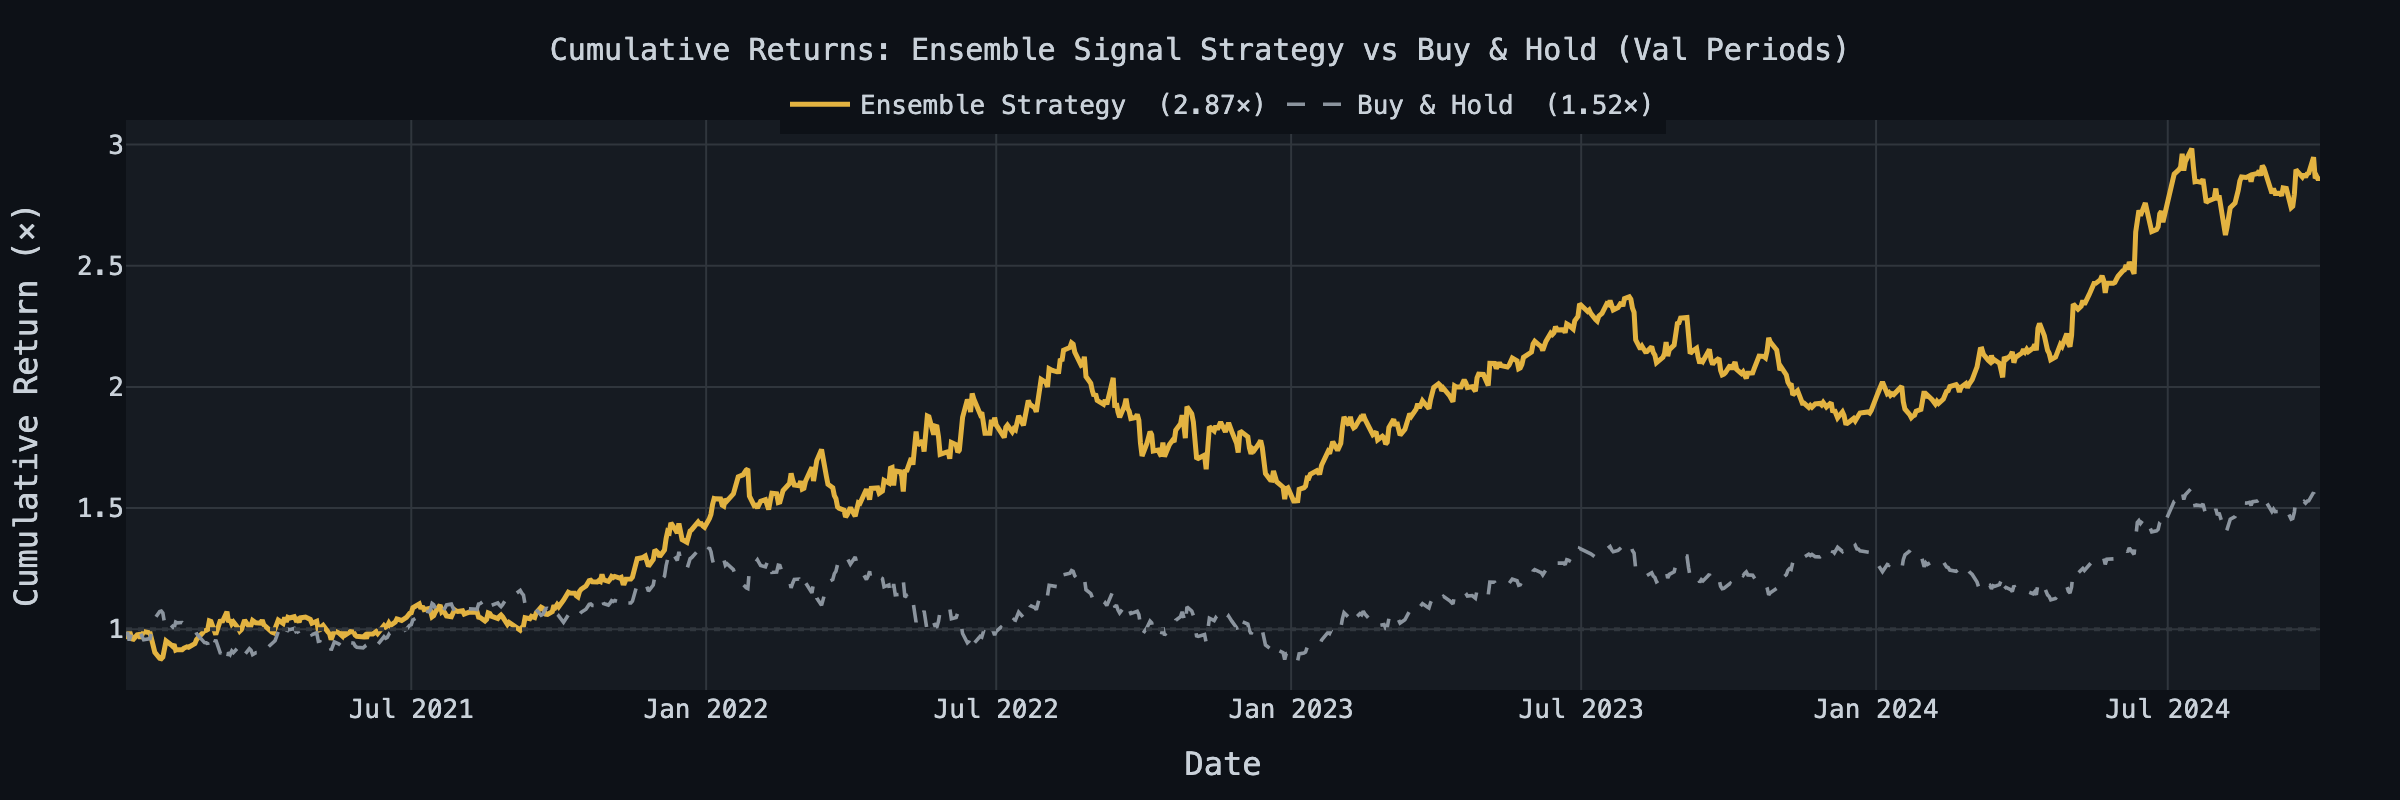
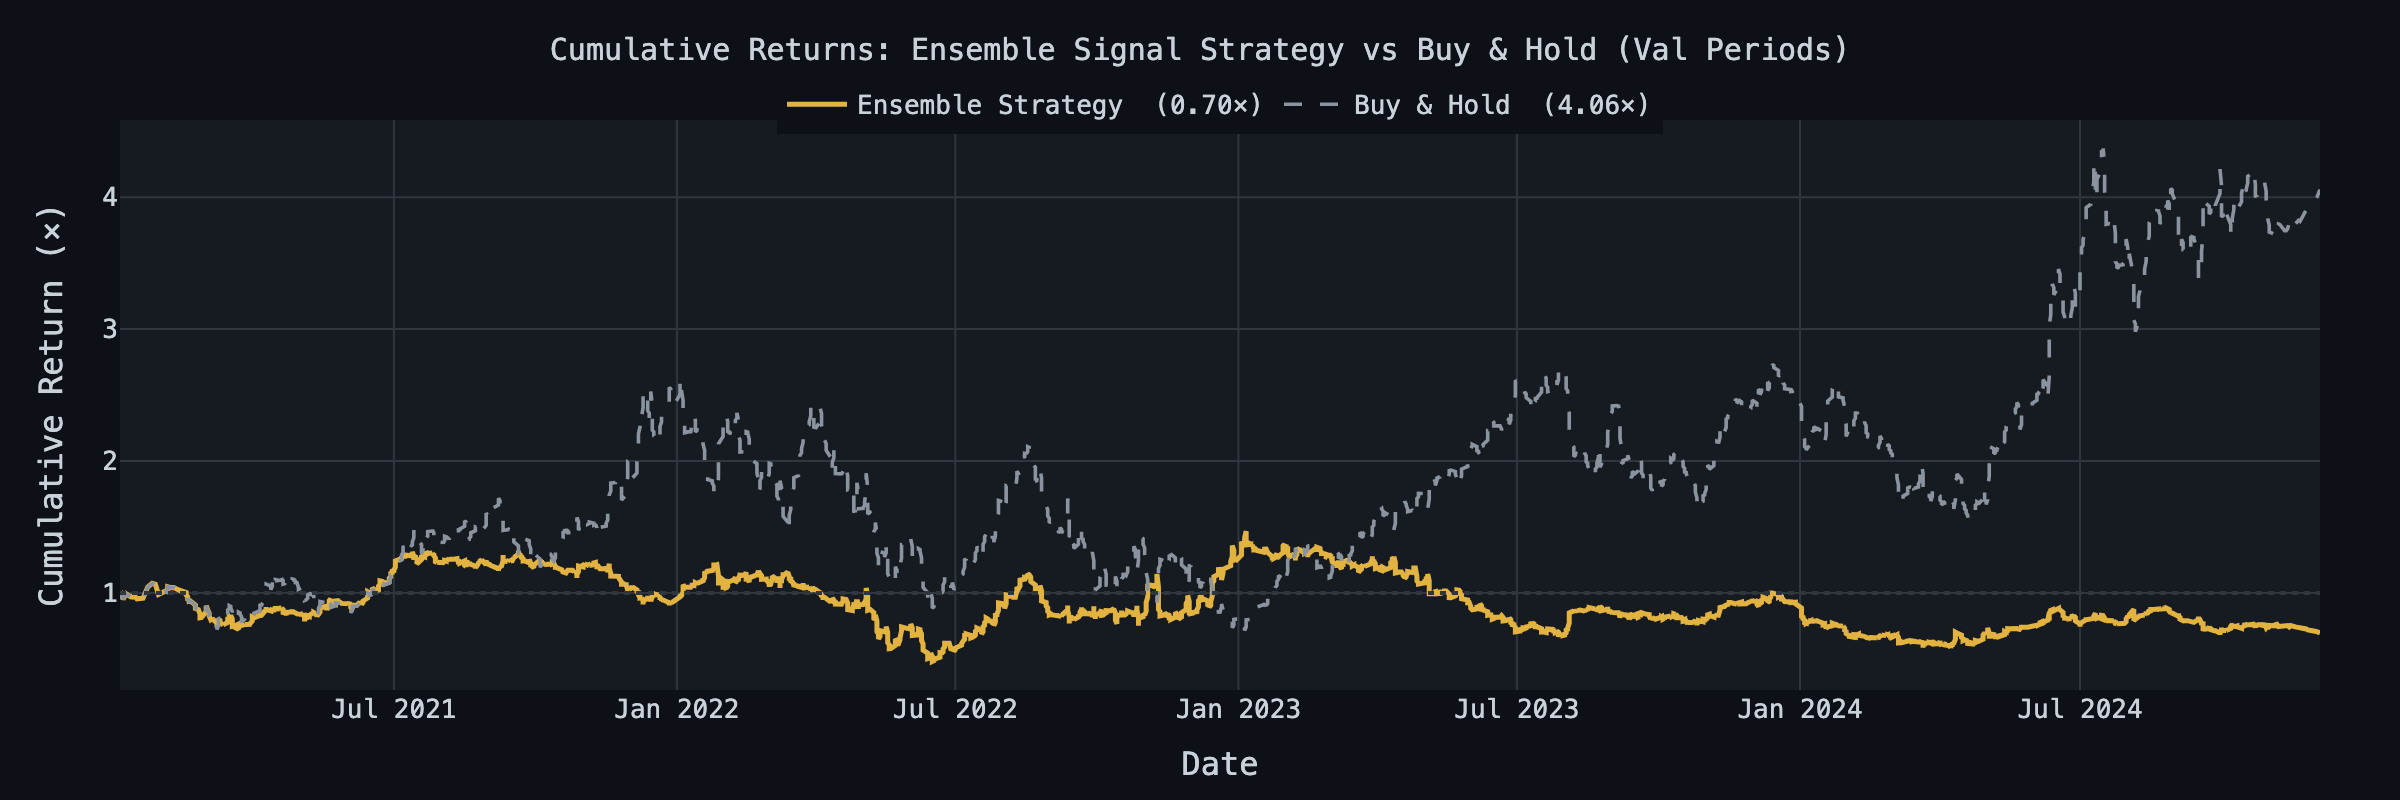
fix dashboard

diff --git a/src/dashboard/callbacks/callbacks.py b/src/dashboard/callbacks/callbacks.py
@@ -1,12 +1,15 @@
 """Dash callback registrations."""
 import os
 import pandas as pd
-from dash import Input, Output, callback
+from dash import Input, Output
 import yaml
 
 from src.dashboard.layouts.overview import build_price_chart
 from src.dashboard.layouts.signal_view import build_signal_chart, build_pnl_chart
 from src.signals.signal_generator import generate_signals, backtest_signals
+
+# Cache regime labels per ticker so we don't re-fit HMM on every render
+_regime_cache: dict = {}
 
 
 def load_feature_df(ticker: str, cfg: dict) -> pd.DataFrame | None:
@@ -23,6 +26,68 @@ def load_cv_results(cfg: dict) -> pd.DataFrame | None:
     return pd.read_csv(path)
 
 
+def add_regime_labels(df: pd.DataFrame, ticker: str) -> pd.DataFrame:
+    """Fit HMM and add volatility_regime column; cached per ticker."""
+    if ticker in _regime_cache:
+        df = df.copy()
+        df["volatility_regime"] = _regime_cache[ticker].reindex(df.index)
+        return df
+    try:
+        from src.models.regime import RegimeDetector
+        import warnings
+        with warnings.catch_warnings():
+            warnings.simplefilter("ignore")
+            rd = RegimeDetector(n_components=2)
+            df = rd.fit_predict(df)
+            _regime_cache[ticker] = df["volatility_regime"].copy()
+    except Exception:
+        pass
+    return df
+
+
+def _regime_signal(df: pd.DataFrame) -> pd.Series:
+    """
+    Signal directly from HMM volatility regime:
+      - Low-vol regime (0)  → +1.0 (buy / stay long)
+      - High-vol regime (1) → -1.0 (sell / go to cash)
+    This is the core model output — not a technical indicator proxy.
+    """
+    if "volatility_regime" not in df.columns:
+        return pd.Series(0.0, index=df.index)
+    # Map: 0 → +1 (low vol = bullish), 1 → -1 (high vol = risk-off)
+    return df["volatility_regime"].map({0: 1.0, 1: -1.0}).fillna(0.0)
+
+
+def _compute_signal_score(df: pd.DataFrame) -> pd.Series:
+    """
+    Composite signal score from engineered features.
+    Range roughly [-1, +1]: positive = bullish, negative = bearish.
+    Components:
+      - RSI: oversold (<30) → bullish, overbought (>70) → bearish
+      - MACD histogram direction
+      - 5-day momentum
+    """
+    import numpy as np
+    score = pd.Series(0.0, index=df.index)
+
+    if "rsi_14" in df.columns:
+        rsi = df["rsi_14"]
+        score += ((70 - rsi) / 40).clip(-1, 1)   # +1 when RSI=30, -1 when RSI=110
+
+    if "macd_histogram" in df.columns:
+        macd = df["macd_histogram"]
+        score += (macd / macd.abs().rolling(60).mean().replace(0, 1)).clip(-1, 1)
+
+    if "rolling_return_5d" in df.columns:
+        mom = df["rolling_return_5d"]
+        score += (mom / mom.abs().rolling(60).mean().replace(0, 1)).clip(-1, 1)
+
+    # Normalise to [-1, 1]
+    roll_std = score.rolling(60).std().replace(0, 1)
+    score = (score / (3 * roll_std)).clip(-1, 1)
+    return score.fillna(0)
+
+
 def register_callbacks(app, cfg: dict, cache) -> None:
 
     @app.callback(
@@ -31,7 +96,6 @@ def register_callbacks(app, cfg: dict, cache) -> None:
         Input("overview-daterange", "start_date"),
         Input("overview-daterange", "end_date"),
     )
-    @cache.memoize(timeout=cfg["dashboard"]["cache_timeout"])
     def update_overview(ticker, start_date, end_date):
         df = load_feature_df(ticker, cfg)
         if df is None:
@@ -40,10 +104,14 @@ def register_callbacks(app, cfg: dict, cache) -> None:
             fig.update_layout(template="plotly_dark",
                               title=f"No data for {ticker}. Run feature pipeline first.")
             return fig
+
+        df = add_regime_labels(df, ticker)
+
         if start_date:
             df = df[df.index >= start_date]
         if end_date:
             df = df[df.index <= end_date]
+
         return build_price_chart(df, ticker)
 
     @app.callback(
@@ -52,7 +120,6 @@ def register_callbacks(app, cfg: dict, cache) -> None:
         Input("signal-ticker", "value"),
         Input("signal-model", "value"),
     )
-    @cache.memoize(timeout=cfg["dashboard"]["cache_timeout"])
     def update_signals(ticker, model):
         import plotly.graph_objects as go
         df = load_feature_df(ticker, cfg)
@@ -74,17 +141,15 @@ def register_callbacks(app, cfg: dict, cache) -> None:
             empty.update_layout(template="plotly_dark", title=f"No results for model '{model}'.")
             return empty, empty
 
-        # Use mean predicted return from CV as a proxy for signal generation
-        # In a full system this would use live model inference
-        if "ic" in model_cv.columns:
-            predicted_returns = df["log_return"].shift(1).fillna(0) * model_cv["ic"].mean()
-        else:
-            predicted_returns = df["log_return"].shift(1).fillna(0)
+        # Generate signals from HMM volatility regime:
+        # Low-vol regime (0) → buy, High-vol regime (1) → sell/cash
+        df = add_regime_labels(df, ticker)
+        predicted_returns = _regime_signal(df)
 
         signals_df = generate_signals(
             predicted_returns,
-            buy_threshold=cfg["signals"]["buy_threshold"],
-            sell_threshold=cfg["signals"]["sell_threshold"],
+            buy_threshold=0.5,
+            sell_threshold=-0.5,
         )
         backtest_df = backtest_signals(signals_df, df["log_return"])
 

diff --git a/src/dashboard/layouts/overview.py b/src/dashboard/layouts/overview.py
@@ -6,7 +6,7 @@ import dash_bootstrap_components as dbc
 from dash import dcc, html
 
 
-REGIME_COLORS = {0: "rgba(39,174,96,0.25)", 1: "rgba(231,76,60,0.25)"}
+REGIME_COLORS = {0: "rgba(39,174,96,0.12)", 1: "rgba(231,76,60,0.12)"}
 REGIME_LABELS = {0: "Low Volatility", 1: "High Volatility"}
 
 
@@ -15,8 +15,8 @@ def build_price_chart(df: pd.DataFrame, ticker: str) -> go.Figure:
     fig = make_subplots(
         rows=2, cols=1,
         shared_xaxes=True,
-        row_heights=[0.75, 0.25],
-        vertical_spacing=0.03,
+        row_heights=[0.7, 0.3],
+        vertical_spacing=0.05,
     )
 
     # Candlestick
@@ -53,11 +53,13 @@ def build_price_chart(df: pd.DataFrame, ticker: str) -> go.Figure:
         _add_regime_shading(fig, df, row=1)
 
     # Volume bars
-    colors = ["#27ae60" if r >= 0 else "#e74c3c"
-              for r in df["close"].pct_change().fillna(0)]
+    ret = df["close"].pct_change().fillna(0).values
+    colors = ["#26a69a" if r >= 0 else "#ef5350" for r in ret]
     fig.add_trace(go.Bar(
-        x=df.index, y=df["volume"], name="Volume",
-        marker_color=colors, showlegend=False,
+        x=list(df.index), y=df["volume"].tolist(),
+        name="Volume",
+        marker=dict(color=colors, opacity=0.8),
+        showlegend=False,
     ), row=2, col=1)
 
     fig.update_layout(
@@ -74,20 +76,25 @@ def build_price_chart(df: pd.DataFrame, ticker: str) -> go.Figure:
 
 
 def _add_regime_shading(fig: go.Figure, df: pd.DataFrame, row: int = 1) -> None:
-    """Add colored background rectangles for each regime period."""
+    """Add colored background shapes for each regime period (price subplot only)."""
     if "volatility_regime" not in df.columns:
         return
     regime = df["volatility_regime"]
     prev_val = regime.iloc[0]
     start = df.index[0]
 
+    # yref="y domain" limits the shape to the price subplot's y-axis extent only
+    yref = "y domain" if row == 1 else f"y{row} domain"
+
     for i in range(1, len(regime)):
         if regime.iloc[i] != prev_val or i == len(regime) - 1:
-            fig.add_vrect(
+            fig.add_shape(
+                type="rect",
                 x0=start, x1=df.index[i],
+                y0=0, y1=1,
+                xref="x", yref=yref,
                 fillcolor=REGIME_COLORS.get(prev_val, "rgba(0,0,0,0)"),
                 layer="below", line_width=0,
-                row=row, col=1,
             )
             start = df.index[i]
             prev_val = regime.iloc[i]

diff --git a/src/signals/signal_generator.py b/src/signals/signal_generator.py
@@ -35,15 +35,18 @@ def backtest_signals(
     transaction_cost: float = 0.001,
 ) -> pd.DataFrame:
     """
-    Simulate a long/short strategy driven by signals.
-    Returns a DataFrame with daily strategy returns and cumulative P&L.
+    Simulate a long-only regime strategy:
+      - signal=+1 (low-vol regime): invested, earns daily return
+      - signal=-1 or 0 (high-vol regime): in cash, earns 0
+    Transaction cost applied on regime switches.
     """
     df = signals_df.copy()
     df["actual_return"] = actual_returns
 
-    # Strategy return = signal * actual_return - cost on signal changes
+    # Long-only: +1 = invested, anything else = cash (0)
+    position = df["signal"].shift(1).clip(lower=0)   # 1 when long, 0 when in cash
     df["signal_change"] = df["signal"].diff().abs()
-    df["strategy_return"] = df["signal"].shift(1) * df["actual_return"] - df["signal_change"] * transaction_cost
+    df["strategy_return"] = position * df["actual_return"] - df["signal_change"] * transaction_cost
 
     df["cumulative_strategy"] = (1 + df["strategy_return"].fillna(0)).cumprod()
     df["cumulative_buyhold"] = (1 + df["actual_return"].fillna(0)).cumprod()
